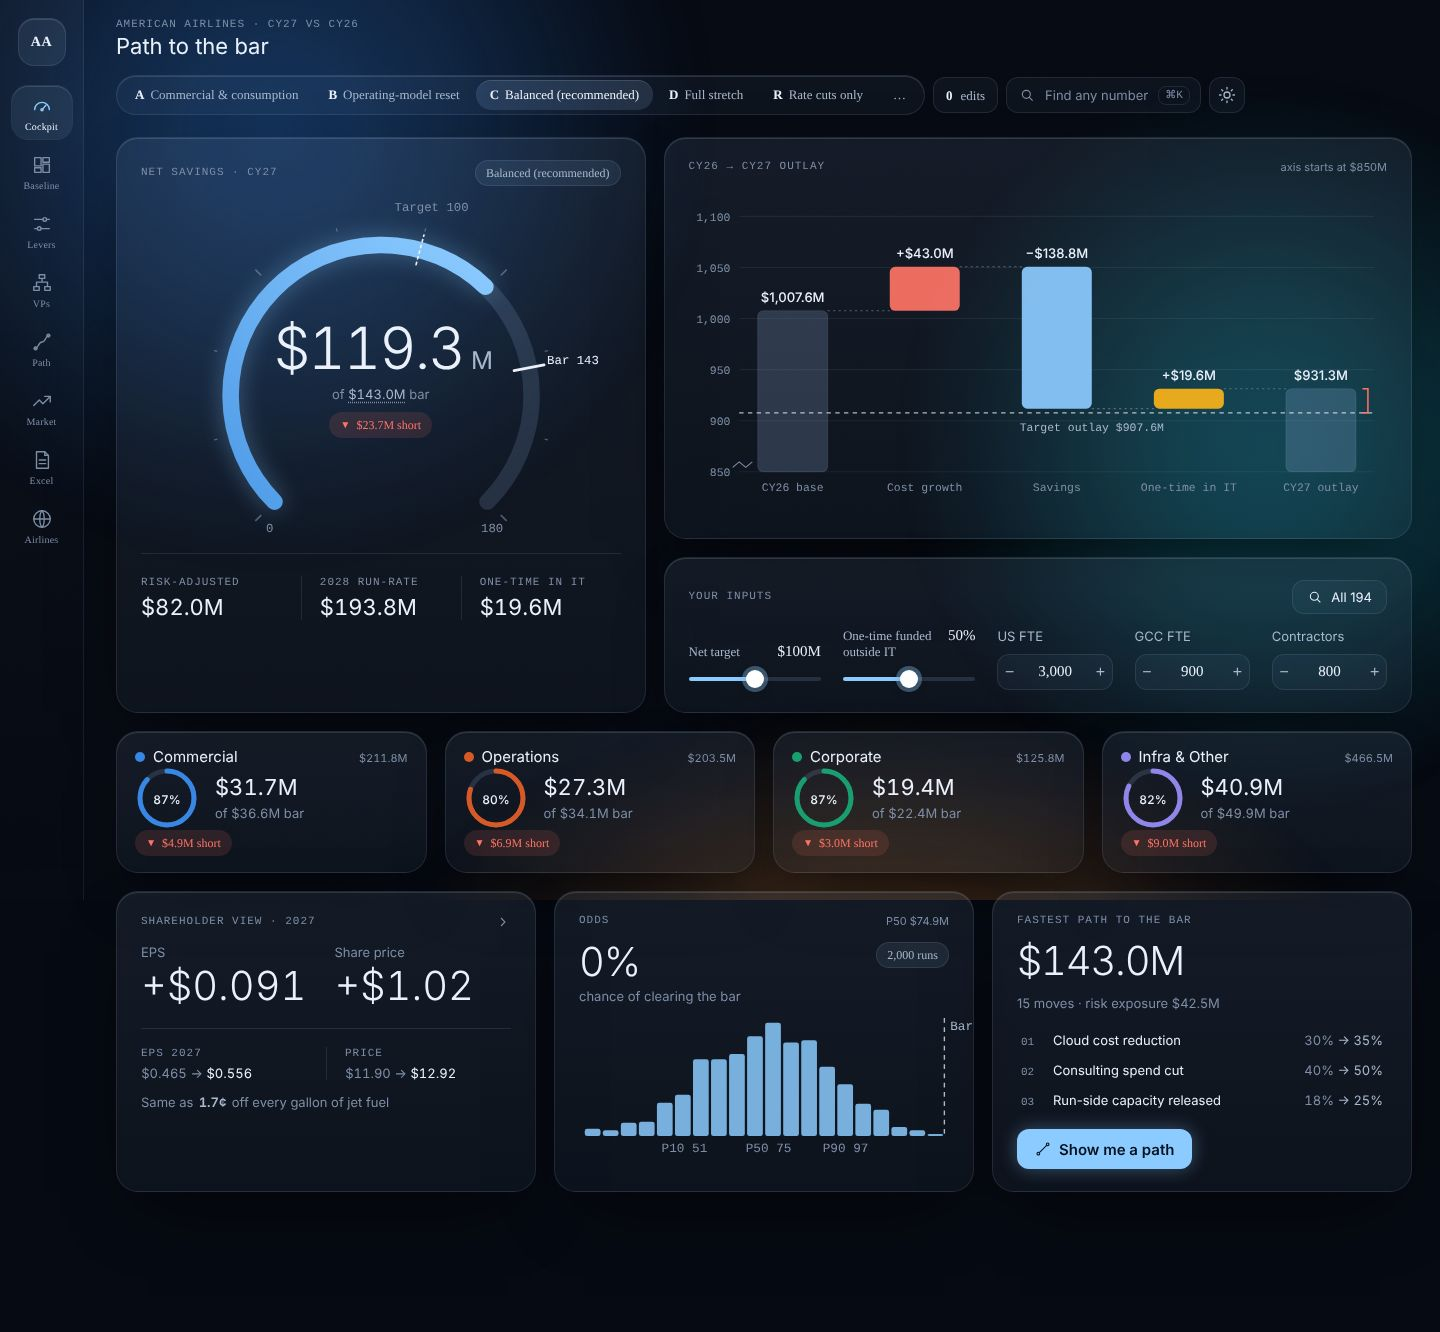
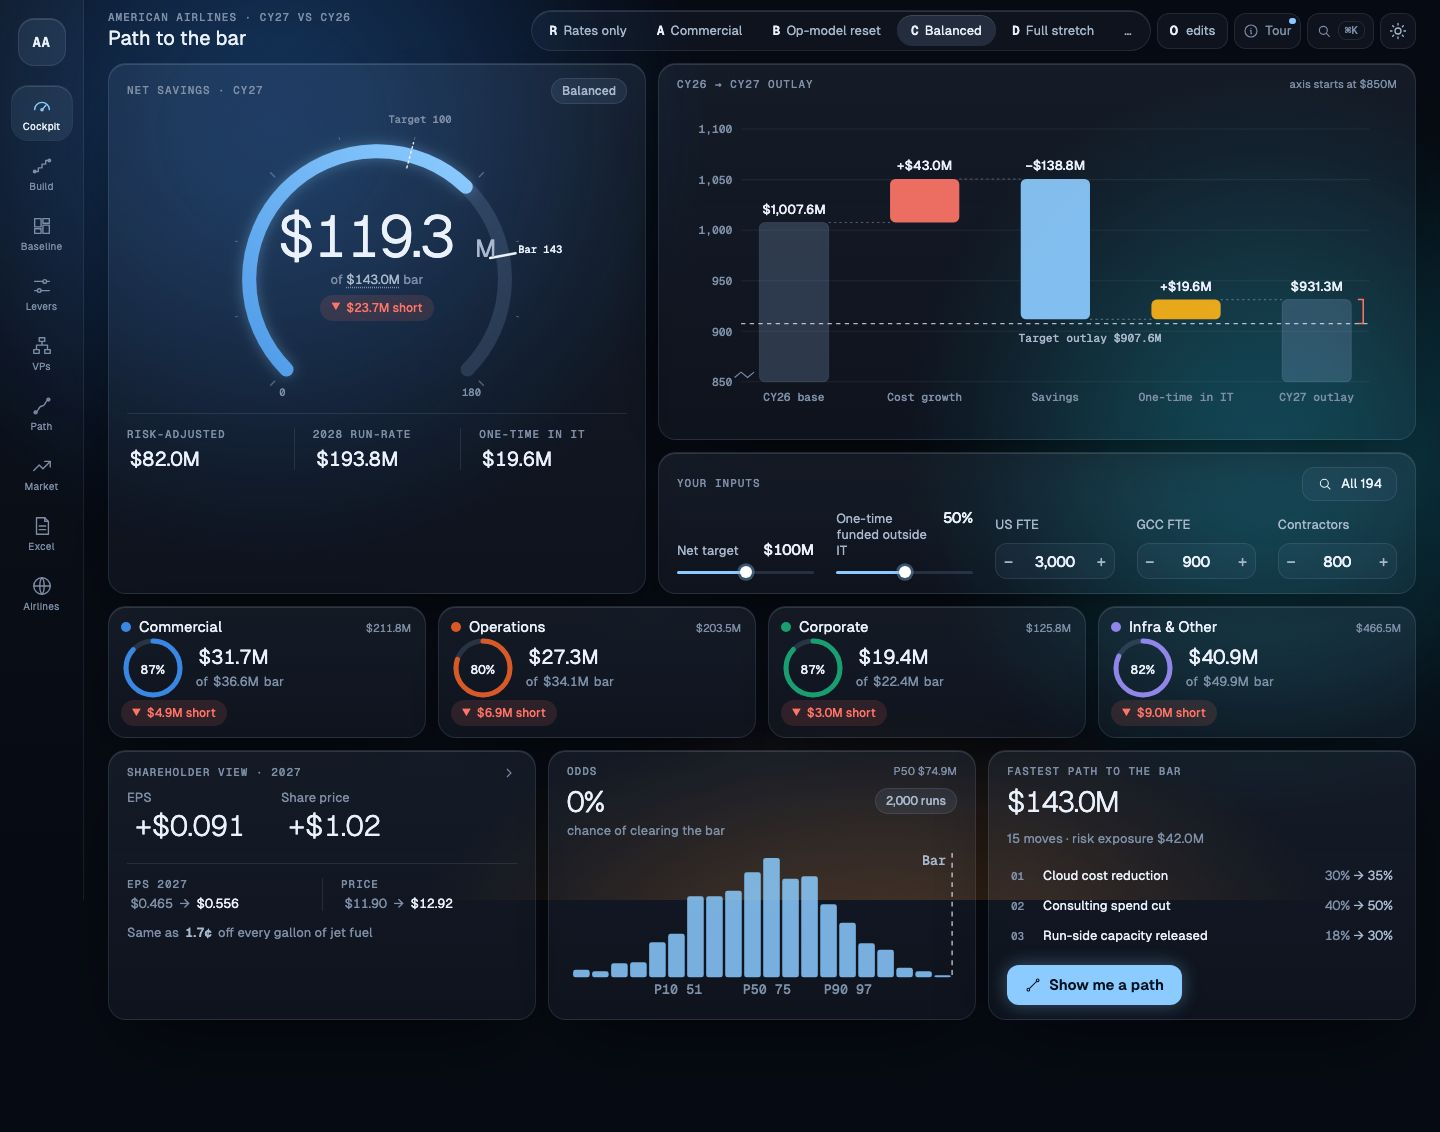
chore(backlog): UIX epic items UIX-01..03, items.json regenerated UIX-01

diff --git a/tools/backlog/extract.py b/tools/backlog/extract.py
@@ -46,7 +46,7 @@ ENUMS = {
 TIERS = {1, 2, 3, "contract", "ops"}
 GATES = {f"G{i}" for i in range(1, 15)}
 EPIC_FILES = ["FND", "OPS", "CON", "SPEC", "ENG", "DATA", "DOM", "API", "JOB", "SOL", "XL", "AI",
-              "UI", "WEB", "MOD", "QA", "INT", "WIZ"]
+              "UI", "WEB", "MOD", "QA", "INT", "WIZ", "UIX"]
 ID_RE = re.compile(r"^([A-Z]+)-(\d{2})$")
 KEY_RE = re.compile(r"^([a-z_]+):(.*)$")
 FENCE_OPEN = re.compile(r"^```yaml\s*$")

diff --git a/docs/backlog/UIX.md b/docs/backlog/UIX.md
@@ -6,26 +6,37 @@ Product-owner request for the demo (Fri 4 Dec 2026): the app is shown full scree
 
 | id | title | ms | model/effort | size | depends on |
 |---|---|---|---|---|---|
-| UIX-01 | Desktop density pass and desktop fit audit | M4 | opus/high | M | WIZ-12 |
-| UIX-02 | Tour as a first-time viewer's demo script | M4 | opus/high | S | UIX-01 |
+| UIX-01 | Desktop density pass | M4 | opus/high | M | WIZ-12 |
+| UIX-02 | Tour as a first-time viewer's demo script | M4 | opus/high | S | WIZ-10 |
+| UIX-03 | E2E: desktop fit audit at 1280x720 and 1920x1080 | M4 | opus/high | S | WIZ-11 |
 
-## UIX-01 · Desktop density pass and desktop fit audit
+## UIX-01 · Desktop density pass
 
 ```yaml
 id: UIX-01
-title: "Desktop density pass and desktop fit audit"
+title: "Desktop density pass"
 epic: UIX
 milestone: M4
 priority: must
 status: review
+stream: C
+model: opus
+effort: high
+depends_on: [WIZ-12]
 tier: 1
-package: "tier1-presentation/ui, tier1-presentation/web, e2e"
+package: "tier1-presentation (ui glass, web shell and modules)"
+contract: "Token custom properties redefined above the tablet breakpoint; DESKTOP_QUERY / SHORT_DESKTOP_QUERY from @glidepath/ui/glass"
+inputs:
+  - "tier1-presentation/ui/src/glass/styles.ts"
+  - "tier1-presentation/web/src/global/shell/styles.ts"
 acceptance:
-  - "Above the tablet breakpoint the token gap, panel padding, panel radius and display sizes step down (ui glass `desktopDensity`), again at heights up to 900 px; tablet and phone unchanged"
-  - "Title, scenario bar and tools share one row at 1280 px and wider"
-  - "Long lists (baseline line items, lever list) scroll inside their panel; wizard step 1 lays levers out in two columns"
-  - "Every ellipsis-truncated label has a title with the full text"
-  - "`pnpm e2e:desktop -- --trace off`: every module at 1280x720 and 1920x1080 with no horizontal page scroll, no text past its panel, no untitled truncation; captures and per-screen JSON in DESKTOP_SHOTS_DIR"
+  - "Above the tablet breakpoint gap, panel padding, panel radius and display sizes step down, again up to 900 px tall; tablet and phone unchanged (ui glass tests)"
+  - "Title, scenario bar and tools on one row at 1280 px and wider (UIX-03 audit)"
+  - "Baseline line items and the lever list scroll inside their panel; wizard step 1 in two columns (UIX-03 audit)"
+  - "Every ellipsis-truncated label has a title with the full text (UIX-03 audit)"
+gates: [G2, G12, G13]
+size: M
+notes: "G11 baselines (chromium-linux) change by design and need re-approval in a Linux container."
 ```
 
 ## UIX-02 · Tour as a first-time viewer's demo script
@@ -37,10 +48,47 @@ epic: UIX
 milestone: M4
 priority: must
 status: review
+stream: C
+model: opus
+effort: high
+depends_on: [WIZ-10]
 tier: 1
-package: "tier1-presentation/web (global/tour), docs/ux/06_walkthrough_narrative.md"
+package: "tier1-presentation/web (global/tour)"
+contract: "TourStepDef.about"
+inputs:
+  - "tier1-presentation/web/src/global/tour/steps.ts"
+  - "docs/ux/06_walkthrough_narrative.md"
 acceptance:
-  - "Each step says what the screen is for and what to try, in plain words; numbers only as placeholders"
-  - "TOUR_VERSION bumped so the Tour button's dot shows again"
-  - "Every step's card fits on screen beside its target at 1280x720 and 1920x1080"
+  - "Each step has an about line: what the screen is for, at most 22 words, no digit, no placeholder (tour.test.tsx)"
+  - "TOUR_VERSION is 2 so the Tour button's dot shows again (tour.test.tsx)"
+gates: [G2]
+size: S
+notes: "Copy lives in steps.ts; docs/ux stays read-only."
+```
+
+## UIX-03 · E2E: desktop fit audit at 1280x720 and 1920x1080
+
+```yaml
+id: UIX-03
+title: "E2E: desktop fit audit at 1280x720 and 1920x1080"
+epic: UIX
+milestone: M4
+priority: must
+status: review
+stream: D
+model: opus
+effort: high
+depends_on: [WIZ-11]
+tier: ops
+package: "e2e (desktop/desktop.spec.ts, playwright.desktop.config.ts)"
+contract: "pnpm e2e:desktop; captures and per-screen JSON in DESKTOP_SHOTS_DIR"
+inputs:
+  - "e2e/visual/visual.spec.ts"
+  - "e2e/src/wizard.ts (TOUR_STEP_SPECS)"
+acceptance:
+  - "Every module, wizard steps 2 to 4: no horizontal page scroll, no text past its panel, no text cut without an ellipsis, no ellipsis without a tooltip"
+  - "Every tour step: card inside the screen and covering under 35% of its target"
+gates: [G9]
+size: S
+notes: "Not in CI; run before the freeze against the demo stack."
 ```
